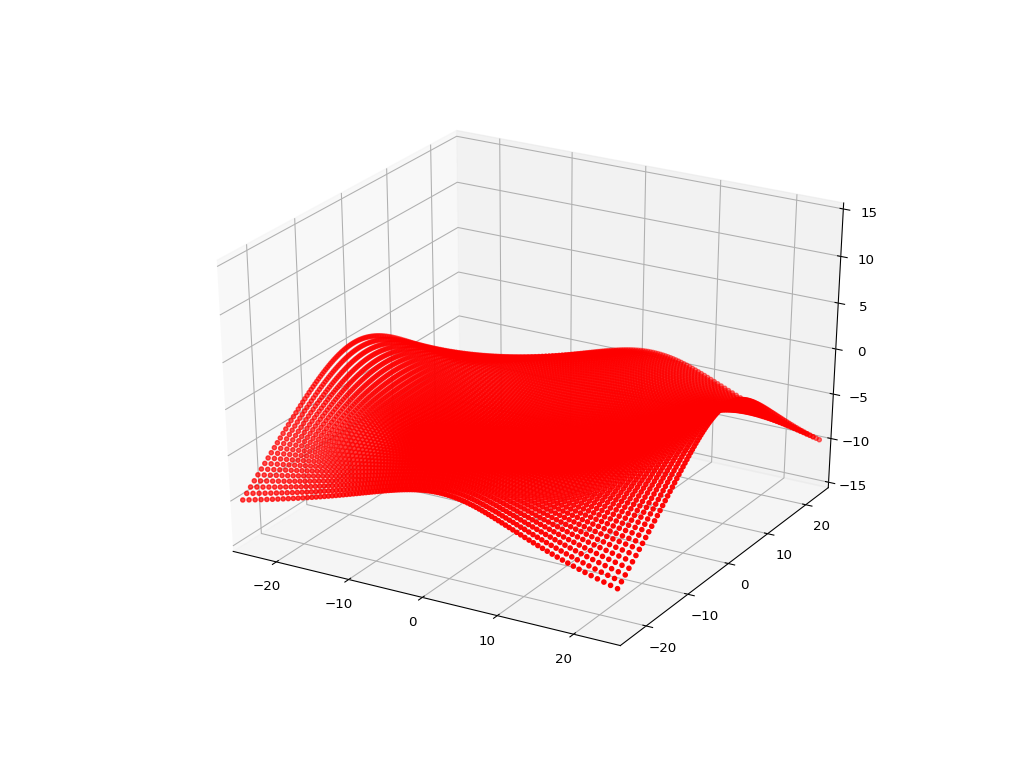
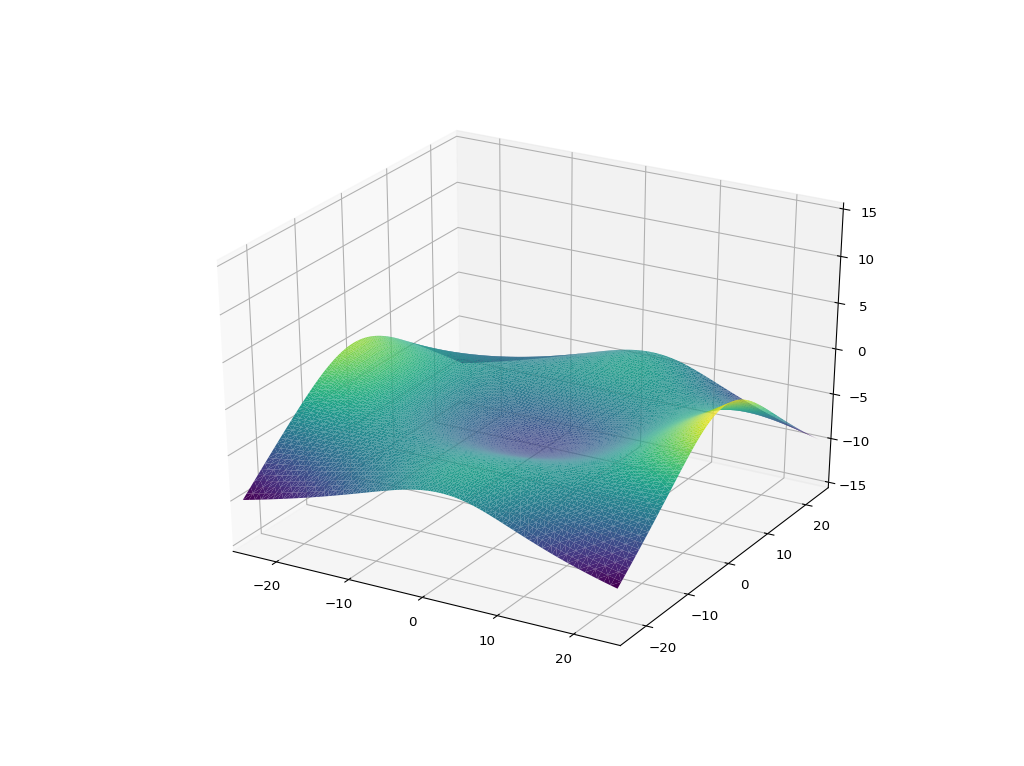
Updated examples

Changed region(s): [[0.2188, 0.4204, 0.8125, 0.7807]]

diff --git a/ex_surface02.py b/ex_surface02.py
@@ -19,10 +19,10 @@ surf.knotvector_v = utils.autogen_knotvector(surf.degree_v, 6)
 surf.calculate()
 
 # Calculate 1st order surface derivative at the given u and v
-u = 0.3
+u = 0.2
 v = 0.9
 skl = surf.derivatives(u, v, 1)
-print("* Surface point at u = %.2f and v = %.f is (%.2f, %.2f, %.2f)" % (u, v, skl[0][0][0], skl[0][0][1], skl[0][0][2]))
+print("* Surface point at u = %.2f and v = %.2f is (%.2f, %.2f, %.2f)" % (u, v, skl[0][0][0], skl[0][0][1], skl[0][0][2]))
 print("* First derivative w.r.t. u is (%.2f, %.2f, %.2f)" % (skl[1][0][0], skl[1][0][1], skl[1][0][2]))
 print("* First derivative w.r.t. v is (%.2f, %.2f, %.2f)\n" % (skl[0][1][0], skl[0][1][1], skl[0][1][2]))
 # Calculate normal at the given u and v
@@ -41,7 +41,8 @@ for spt in surf.surfpts:
 # Plot using Matplotlib
 fig = plt.figure(figsize=(10.67, 8), dpi=96)
 ax = fig.gca(projection='3d')
-surfplt = ax.scatter(surfpts_x, surfpts_y, surfpts_z, c="green", s=10, depthshade=True)
+#surfplt = ax.scatter(surfpts_x, surfpts_y, surfpts_z, c="green", s=10, depthshade=True) # 3D Scatter plot
+surfplt = ax.plot_trisurf(surfpts_x, surfpts_y, surfpts_z, cmap=plt.cm.winter)  # 3D Tri-Surface plot
 ax.set_xlim(-25, 25)
 ax.set_ylim(-25, 25)
 ax.set_zlim(-15, 15)

diff --git a/ex_surface01.py b/ex_surface01.py
@@ -29,7 +29,8 @@ for spt in surf.surfpts:
 # Plot using Matplotlib
 fig = plt.figure(figsize=(10.67, 8), dpi=96)
 ax = fig.gca(projection='3d')
-surfplt = ax.scatter(surfpts_x, surfpts_y, surfpts_z, c="red", s=10, depthshade=True)
+#surfplt = ax.scatter(surfpts_x, surfpts_y, surfpts_z, c="red", s=10, depthshade=True)  # 3D Scatter plot
+surfplt = ax.plot_trisurf(surfpts_x, surfpts_y, surfpts_z, cmap=plt.cm.viridis)  # 3D Tri-Surface plot
 ax.set_xlim(-25, 25)
 ax.set_ylim(-25, 25)
 ax.set_zlim(-15, 15)
